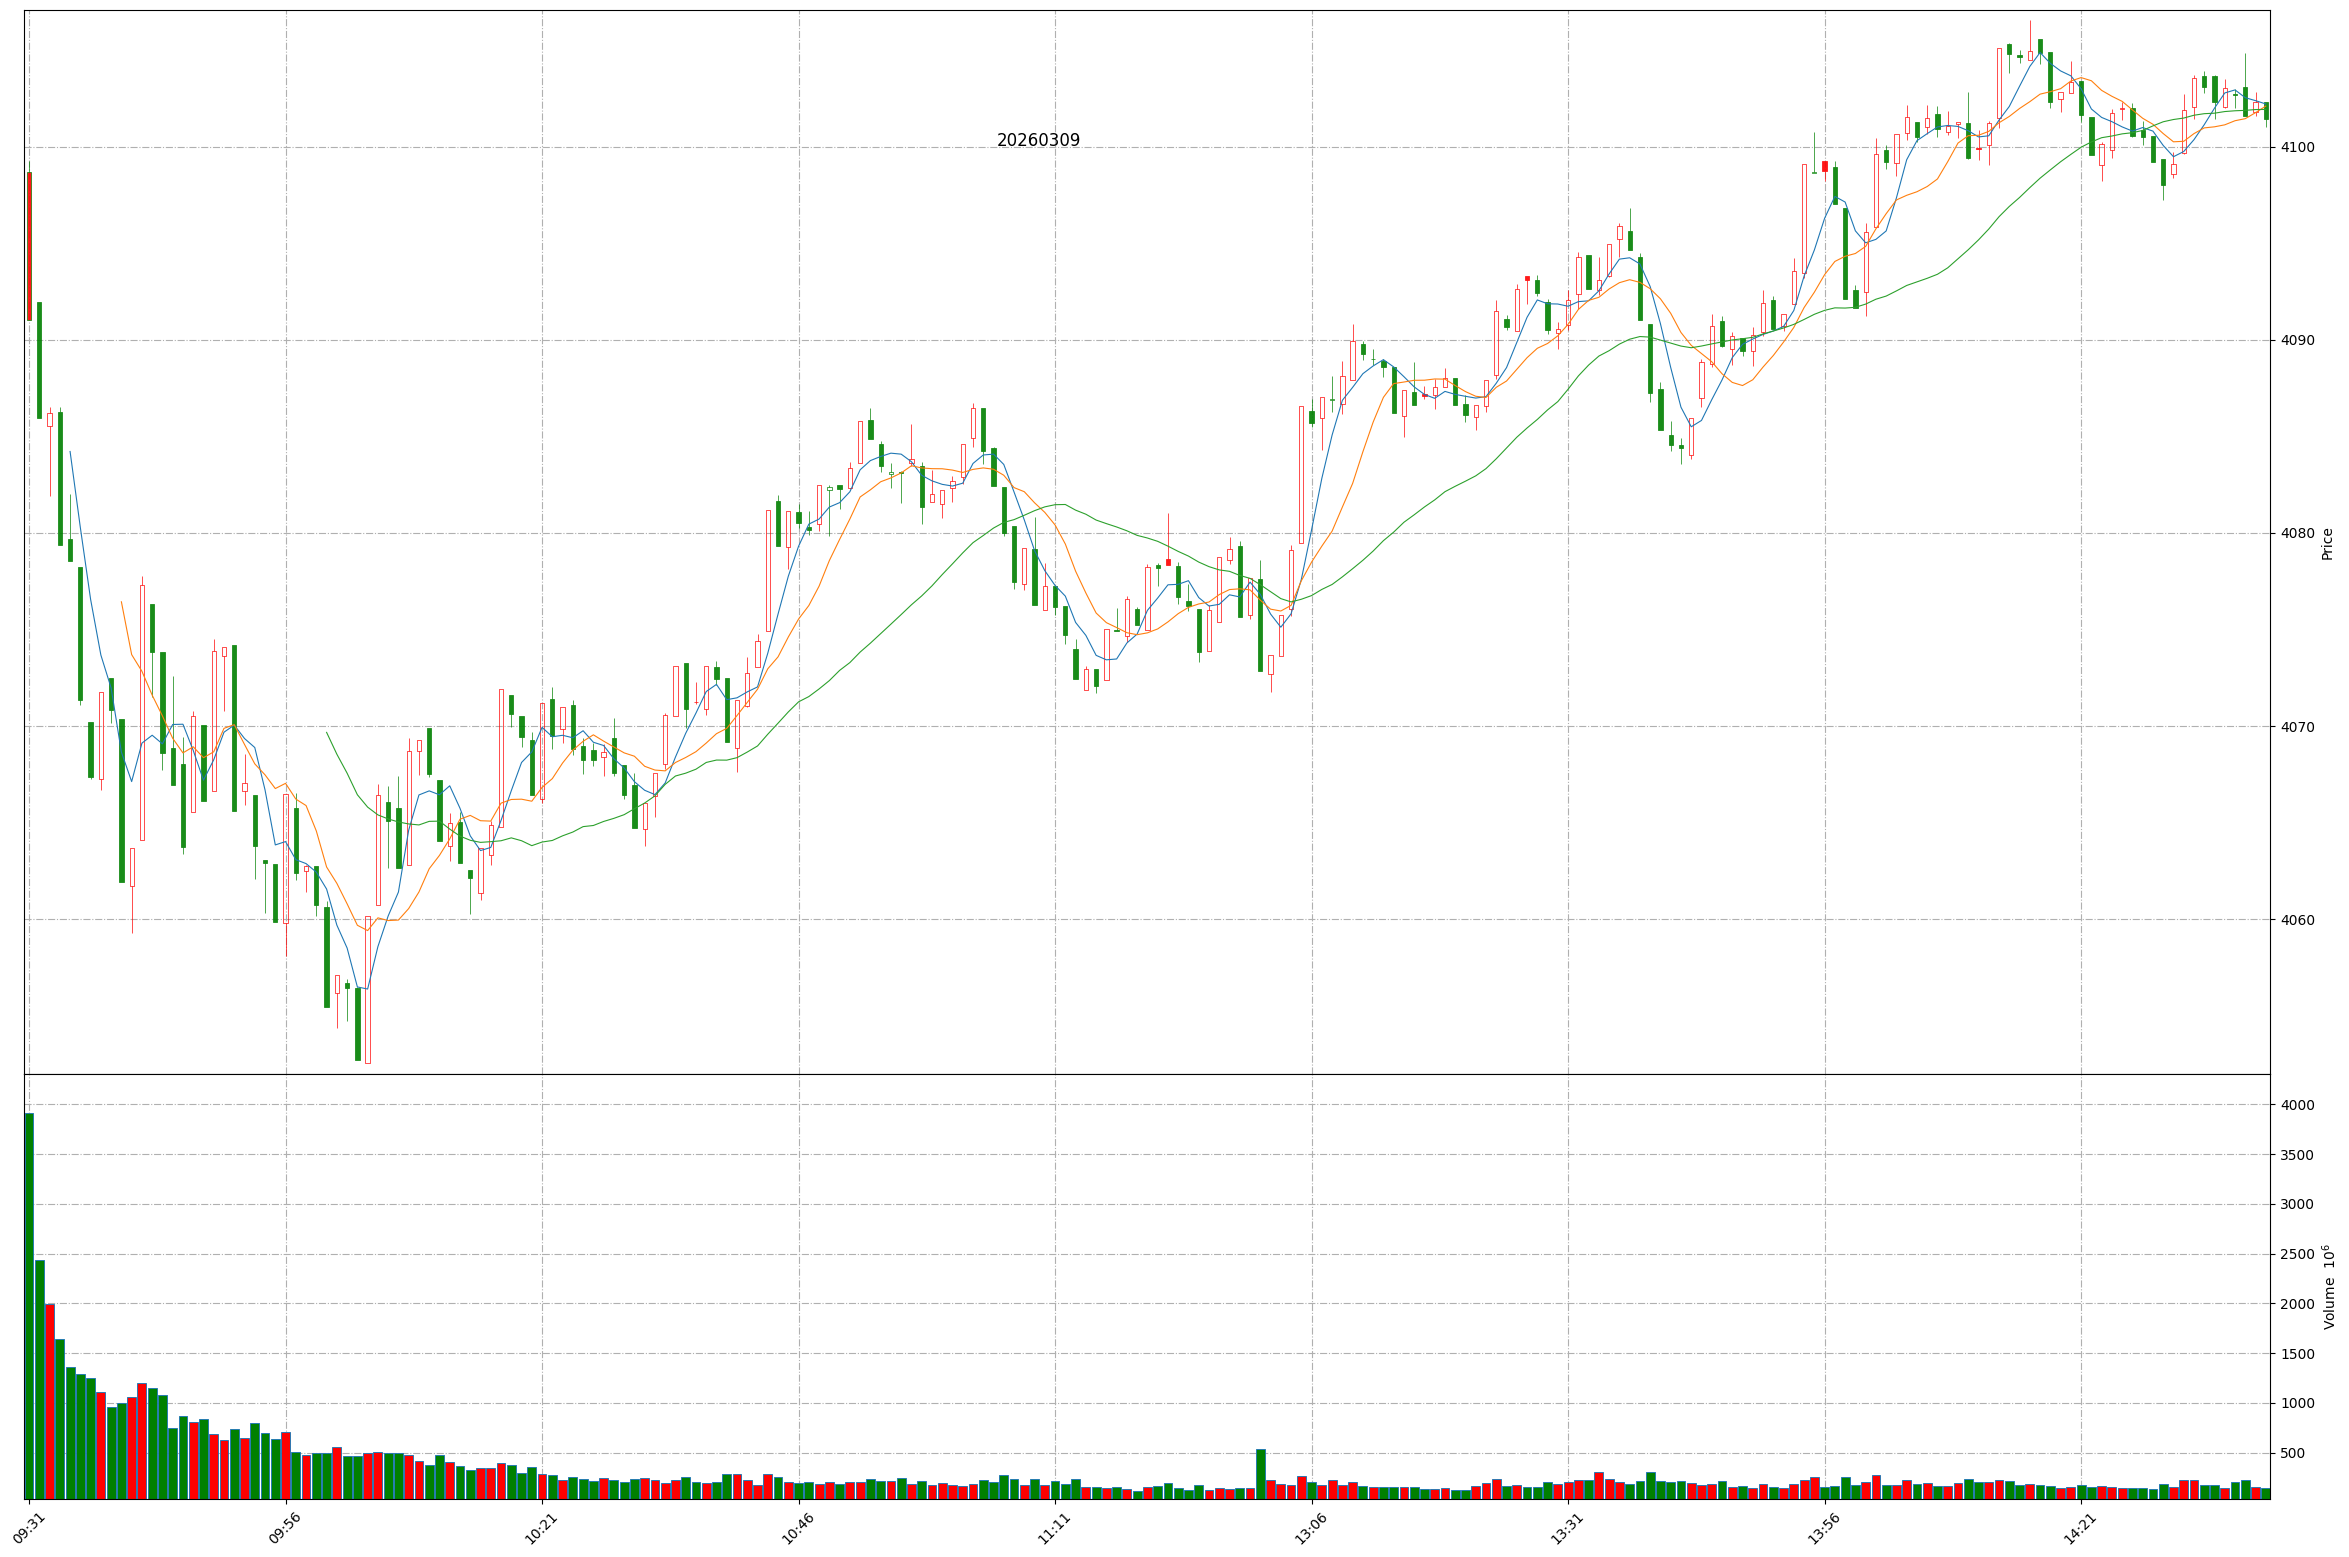
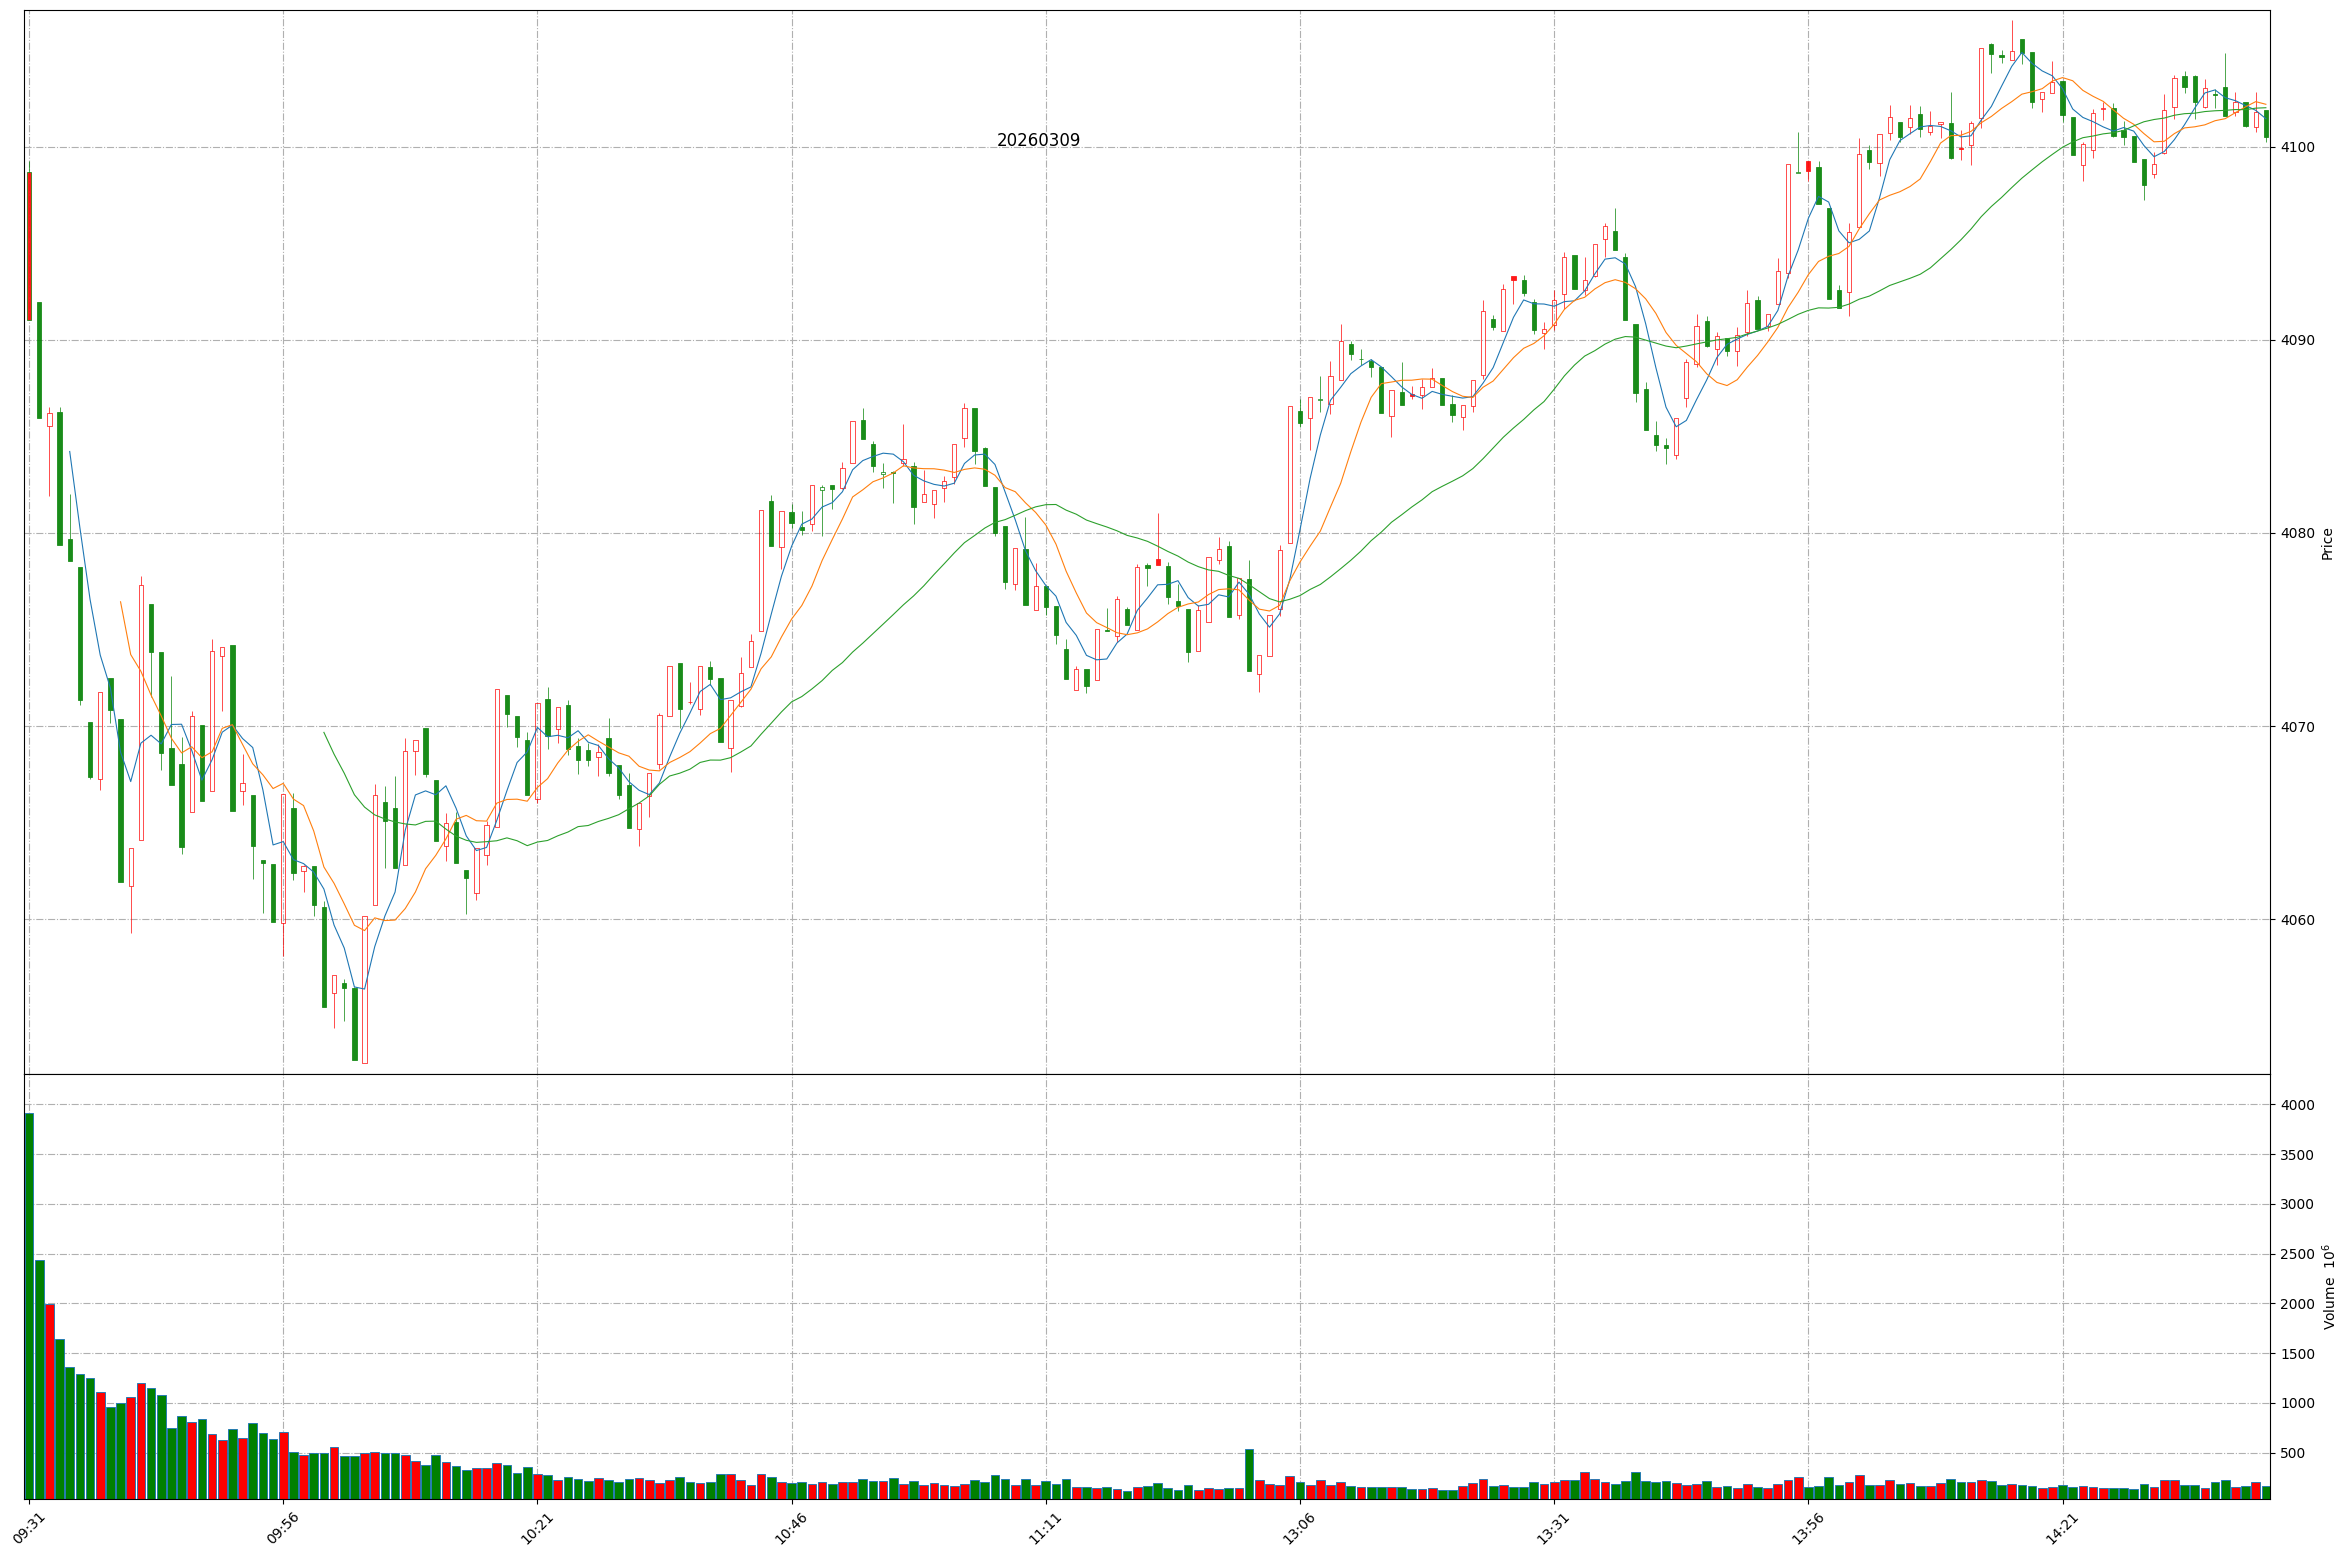
Github action update at 2026-03-09 14:40:54.

Changed region(s): [[0.0311, 0.2775, 0.5594, 0.6782], [0.0311, 0.894, 0.9634, 0.9865], [0.5594, 0.0308, 0.9634, 0.3083]]

diff --git a/README.md b/README.md
@@ -1,11 +1,11 @@
 
 # Daily-A-share-market-quotes 每日 A 股指数（5min 更新）- 20260309
 
-### 上证指数 20260309 14:39
+### 上证指数 20260309 14:40
 ![](./fig/2026/3/20260309-sh000001.png)
 
-### 深证成指 20260309 14:39
+### 深证成指 20260309 14:40
 ![](./fig/2026/3/20260309-sz399001.png)
 
-### 北证50 20260309 14:39
+### 北证50 20260309 14:40
 ![](./fig/2026/3/20260309-bj899050.png)
